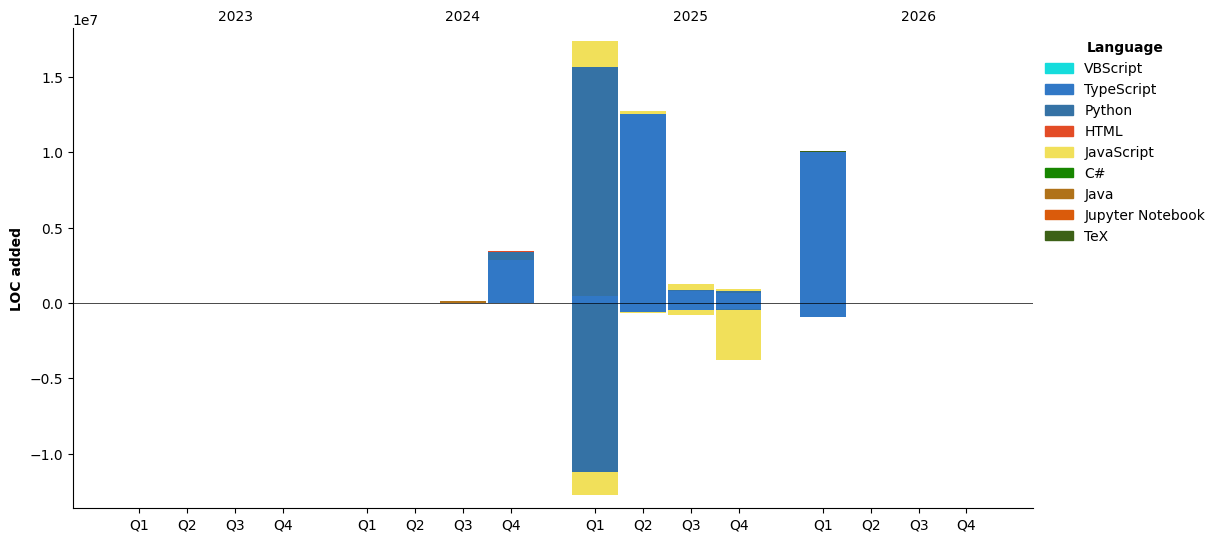
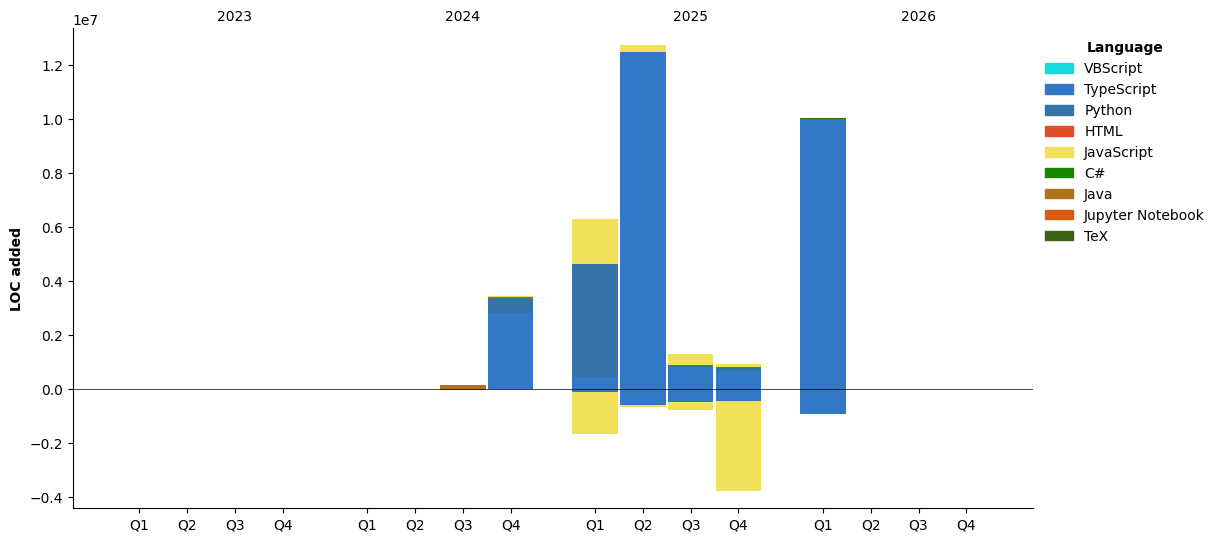
Updated the Stats

diff --git a/README.md b/README.md
@@ -129,26 +129,26 @@ me = Drago()
   <!--START_SECTION:waka-->
 ![Code Time](http://img.shields.io/badge/Code%20Time-221%20hrs%208%20mins-blue?style=flat)
 
-![Lines of code](https://img.shields.io/badge/From%20Hello%20World%20I%27ve%20Written-45.98%20million%20lines%20of%20code-blue?style=flat)
+![Lines of code](https://img.shields.io/badge/From%20Hello%20World%20I%27ve%20Written-34.89%20million%20lines%20of%20code-blue?style=flat)
 
 **I'm an Early 🐤** 
 
 ```text
-🌞 Morning                4797 commits        ███████████░░░░░░░░░░░░░░   44.08 % 
-🌆 Daytime                3047 commits        ███████░░░░░░░░░░░░░░░░░░   28.00 % 
-🌃 Evening                2041 commits        █████░░░░░░░░░░░░░░░░░░░░   18.76 % 
-🌙 Night                  997 commits         ██░░░░░░░░░░░░░░░░░░░░░░░   09.16 % 
+🌞 Morning                4773 commits        ███████████░░░░░░░░░░░░░░   44.35 % 
+🌆 Daytime                3014 commits        ███████░░░░░░░░░░░░░░░░░░   28.01 % 
+🌃 Evening                2007 commits        █████░░░░░░░░░░░░░░░░░░░░   18.65 % 
+🌙 Night                  967 commits         ██░░░░░░░░░░░░░░░░░░░░░░░   08.99 % 
 ```
 📅 **I'm Most Productive on Sunday** 
 
 ```text
-Monday                   1736 commits        ████░░░░░░░░░░░░░░░░░░░░░   15.95 % 
-Tuesday                  1000 commits        ██░░░░░░░░░░░░░░░░░░░░░░░   09.19 % 
-Wednesday                840 commits         ██░░░░░░░░░░░░░░░░░░░░░░░   07.72 % 
-Thursday                 619 commits         █░░░░░░░░░░░░░░░░░░░░░░░░   05.69 % 
-Friday                   787 commits         ██░░░░░░░░░░░░░░░░░░░░░░░   07.23 % 
-Saturday                 976 commits         ██░░░░░░░░░░░░░░░░░░░░░░░   08.97 % 
-Sunday                   4924 commits        ███████████░░░░░░░░░░░░░░   45.25 % 
+Monday                   1694 commits        ████░░░░░░░░░░░░░░░░░░░░░   15.74 % 
+Tuesday                  968 commits         ██░░░░░░░░░░░░░░░░░░░░░░░   09.00 % 
+Wednesday                832 commits         ██░░░░░░░░░░░░░░░░░░░░░░░   07.73 % 
+Thursday                 608 commits         █░░░░░░░░░░░░░░░░░░░░░░░░   05.65 % 
+Friday                   769 commits         ██░░░░░░░░░░░░░░░░░░░░░░░   07.15 % 
+Saturday                 969 commits         ██░░░░░░░░░░░░░░░░░░░░░░░   09.00 % 
+Sunday                   4921 commits        ███████████░░░░░░░░░░░░░░   45.73 % 
 ```
 
 
@@ -166,7 +166,7 @@ No Activity Tracked This Week
 ![Lines of Code chart](https://raw.githubusercontent.com/Drago-03/Drago-03/main/assets/bar_graph.png)
 
 
- Last Updated on 05/04/2026 18:57:17 UTC
+ Last Updated on 06/04/2026 19:00:19 UTC
 <!--END_SECTION:waka-->
 </details>
 
